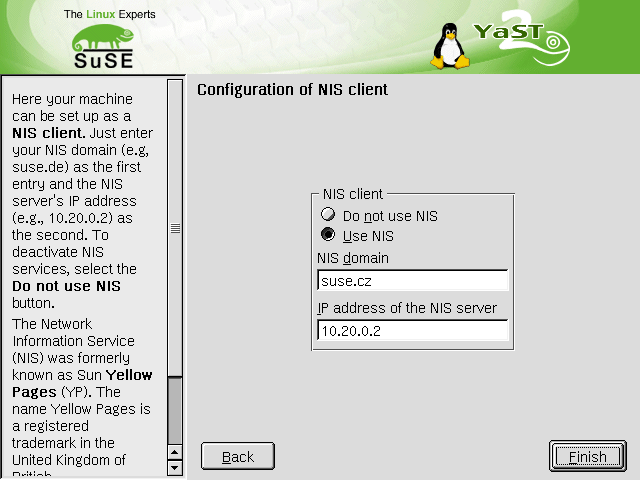
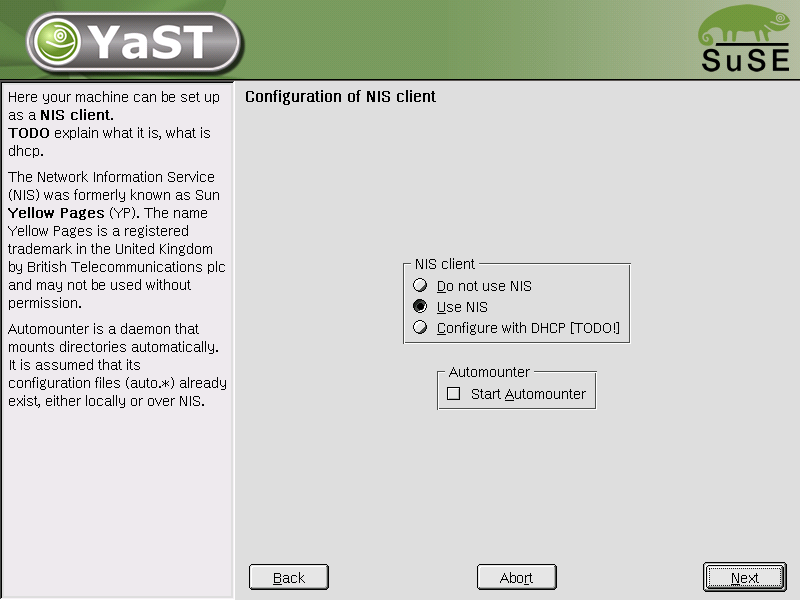
Updated screenshots and docs (a bit).
svn path=/trunk/nis-client/; revision=2674

diff --git a/doc/index.html b/doc/index.html
@@ -15,9 +15,10 @@ YaST2 configuration module</h1>
 
 <h2>Features</h2>
 
-<p>The NIS client config module manages relevant variables in
-/erc/rc.config and starts and stops the necessary init scripts: ypbind
-and portmap. Runs SuSEconfig module ypclient.
+<p>The NIS client config module manages /etc/yp.conf,
+/etc/defaultdomain, the relevant variables in
+/etc/sysconfig/ypbind and starts and stops the necessary init scripts: ypbind
+and portmap.
 
 <h2>Background Documentation</h2>
 
@@ -37,19 +38,40 @@ of ypdomainname</a> <i>FIXME:</i> put it into ypdomainname man page.
 <p>The help text and the input box label mention multiple servers.
 See <a href="http://bugzilla.suse.de/show_bug.cgi?id=9559">bug #9559</a>.
 
+<h3>Changes since SL 7.3</h3>
+
+<p>Added a quick automounter switch
+See <a href="http://bugzilla.suse.de/show_bug.cgi?id=6092">bug #6092</a>.
+
+<h3>Changes since SL 8.0</h3>
+
+<p>Added a Details dialog.
+See <a href="http://bugzilla.suse.de/show_bug.cgi?id=15666">bug #15666</a>.
+<p>Added a Multiple domains dialog
+See <a href="http://bugzilla.suse.de/show_bug.cgi?id=15665">bug #15665</a>.
+<p>Work in progress: configuration over DHCP.
+
 <h3>Individual dialogs</h3>
 
-<p><img src="nis1-h.png">
-
-<p><img src="nis2.png">
-
-<p>An older version, not mentioning multiple servers:
-<p><img src="nis1.png">
-
-<p>Another variant: Multiple servers in a list box.
-Should they be in a separate dialog?
-(PushButton "More servers...")
-<p><img src="nis1-l.png">
+<p><img src="nis1.png" />
+<p><img src="nis2a.png" />
+<p><img src="nis2b.png" />
+<p>Delete:
+<p><img src="nis2b_del_dfl.png" />
+&nbsp;<img src="nis2b_del_dom.png" />
+<p>Add/Edit:
+<p><img src="nis2b1.png" />
+<p><img src="nis2b1_err.png" />
+<font color="red">TODO: other restrictions?</font>
+<p>Add/Edit server:
+<p><img src="nis2b11.png" />
+<p>This refers to a server DNS domain name. TODO: Allow IPs (names?)
+and describe them.
+<p><img src="nis2b11_err.png" />
+<p>Switching from the multiple domain dialog to the single domain dialog:
+<p><img src="nis2b_m_s.png" />
+<p><img src="nis2c.png" />
+<p><img src="nis3.png" />
 
 <h2>Implementation</h2>
 
